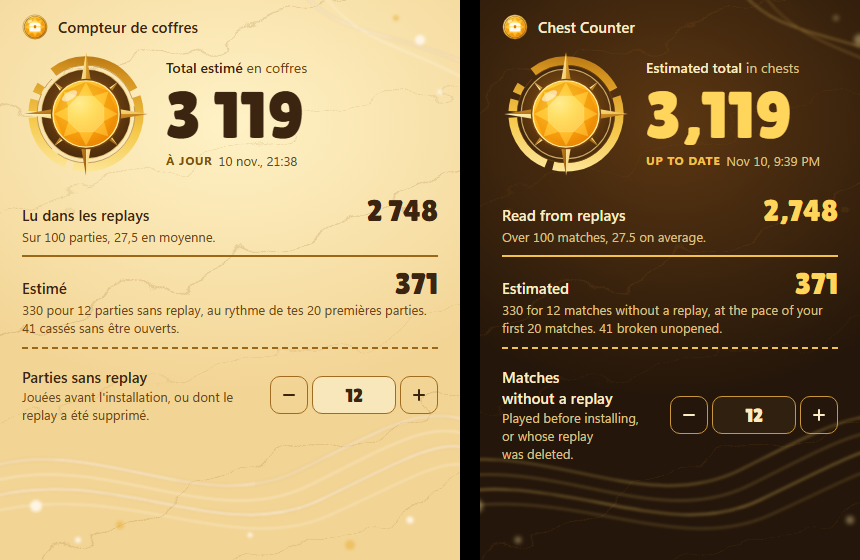
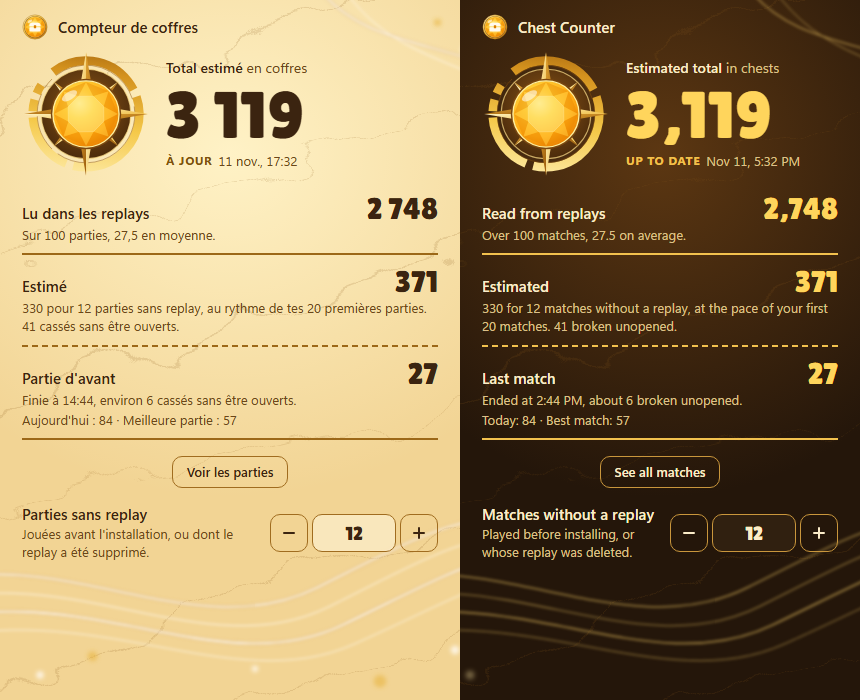
docs(readme): describe the recount, the last match and the match list

diff --git a/README.md b/README.md
@@ -28,6 +28,8 @@ It reads the replay files Fortnite saves after each match, finds every chest you
 - Fortnite only keeps about 100 replays. Chest Counter saves every match it reads, so a deleted replay stays counted.
 - No account or login, and no Epic or tracker API. Your replays stay on your PC.
 - The window has a single field to fill in once, and nothing moves while you play.
+- Your last match, today's chests and your best match sit under the total, and every counted match is listed with its chests by type.
+- A Windows notification can tell you how many chests each match added.
 - French or English, depending on your Windows language.
 - New versions install themselves from GitHub releases.
 
@@ -62,16 +64,22 @@ The big number is the estimated total. The line under it, Read from replays, cou
 
 If you played matches before installing Chest Counter, or Fortnite already deleted their replays, enter how many in **Matches without a replay**. Those are almost always your oldest matches, played before you got better at finding chests, so they are estimated from your first 20 counted matches.
 
+**Last match** shows the chests you opened in your latest match, when it ended, today's chests and your best match. **See all matches** lists every counted match with its chests by type. The notification at the end of each match can be turned off at the bottom of that list.
+
+### Updating from 2.2 or earlier
+
+Version 2.3 counts more accurately. Before, a chest you opened, left and saw again later was often counted a second time, so **Read from replays** goes down after the update. Your replays still on the PC are read again once. Matches counted by an older version whose replay is gone cannot be read again: they move to **Matches without a replay** and are estimated. The window shows the numbers before and after, once.
+
 ## What is counted
 
-Every opening of a chest by you: regular, rare, buried, relic and wanted poster chests. A chest that refills and is opened again counts again. Ammo boxes and coolers are not counted.
+Every opening of a chest by you: regular, rare, buried, relic and wanted poster chests, and chest types added by game updates. A chest that refills and is opened again counts again; a chest you only see again does not. Ammo boxes, coolers and loot cannons are not counted.
 
 ## Limits
 
 - Fortnite keeps about 100 replays. A match whose replay is deleted before the app reads it can only be estimated, so open Chest Counter at least once every 100 matches.
 - Replays do not say who broke a chest. A chest destroyed while it still held loot counts for you when you were the closest player, within 10 m, of the loot it dropped. Your recorded position does not follow a vehicle, so a chest destroyed while you are driving counts for 0.7. This part is always shown as estimated.
 - Relic finder chests cannot be attributed and are not counted.
-- A chest type added by a game update is ignored until the app is updated.
+- A match cut short by a crash leaves an unfinished replay. It is shown apart and cannot be counted; a match you quit from the menu is counted normally.
 - All game modes found in the replay folder are counted.
 
 ## Privacy
@@ -106,6 +114,6 @@ The output is in `dist\releases`. Add `-Upload` to publish it as a draft GitHub 
 
 ## License
 
-[GPL-3.0](LICENSE). Replays are read with [FortniteReplayDecompressor](https://github.com/Shiqan/FortniteReplayDecompressor) (MIT). The figures use [Lilita One](https://github.com/google/fonts/tree/main/ofl/lilitaone) under the SIL Open Font License.
+[GPL-3.0](LICENSE). Replays are read with a copy of [FortniteReplayDecompressor](https://github.com/Shiqan/FortniteReplayDecompressor) by Shiqan (MIT), kept in `lib/` with a few fixes listed in its README. Its Kraken decompressor is a port of [ooz](https://github.com/powzix/ooz) by Powzix, under GPL-3.0-or-later. The figures use [Lilita One](https://github.com/google/fonts/tree/main/ofl/lilitaone) under the SIL Open Font License.
 
 Chest Counter is not affiliated with or endorsed by Epic Games. Fortnite is a trademark of Epic Games, Inc.
